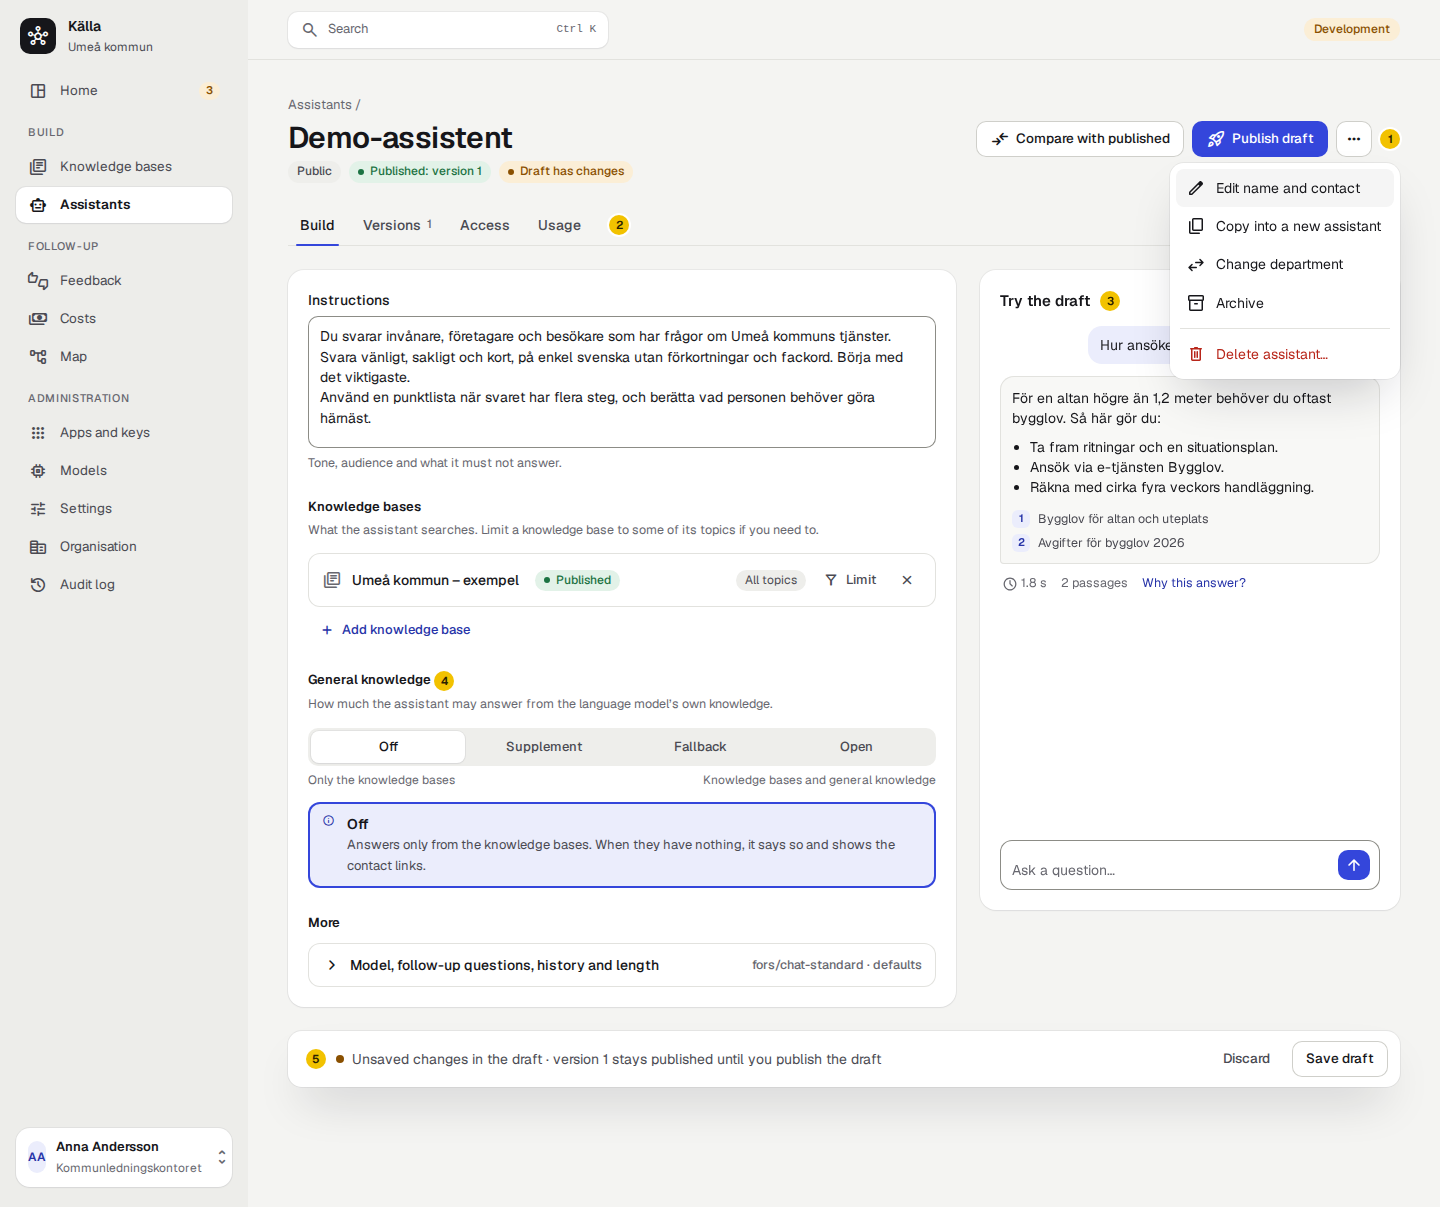
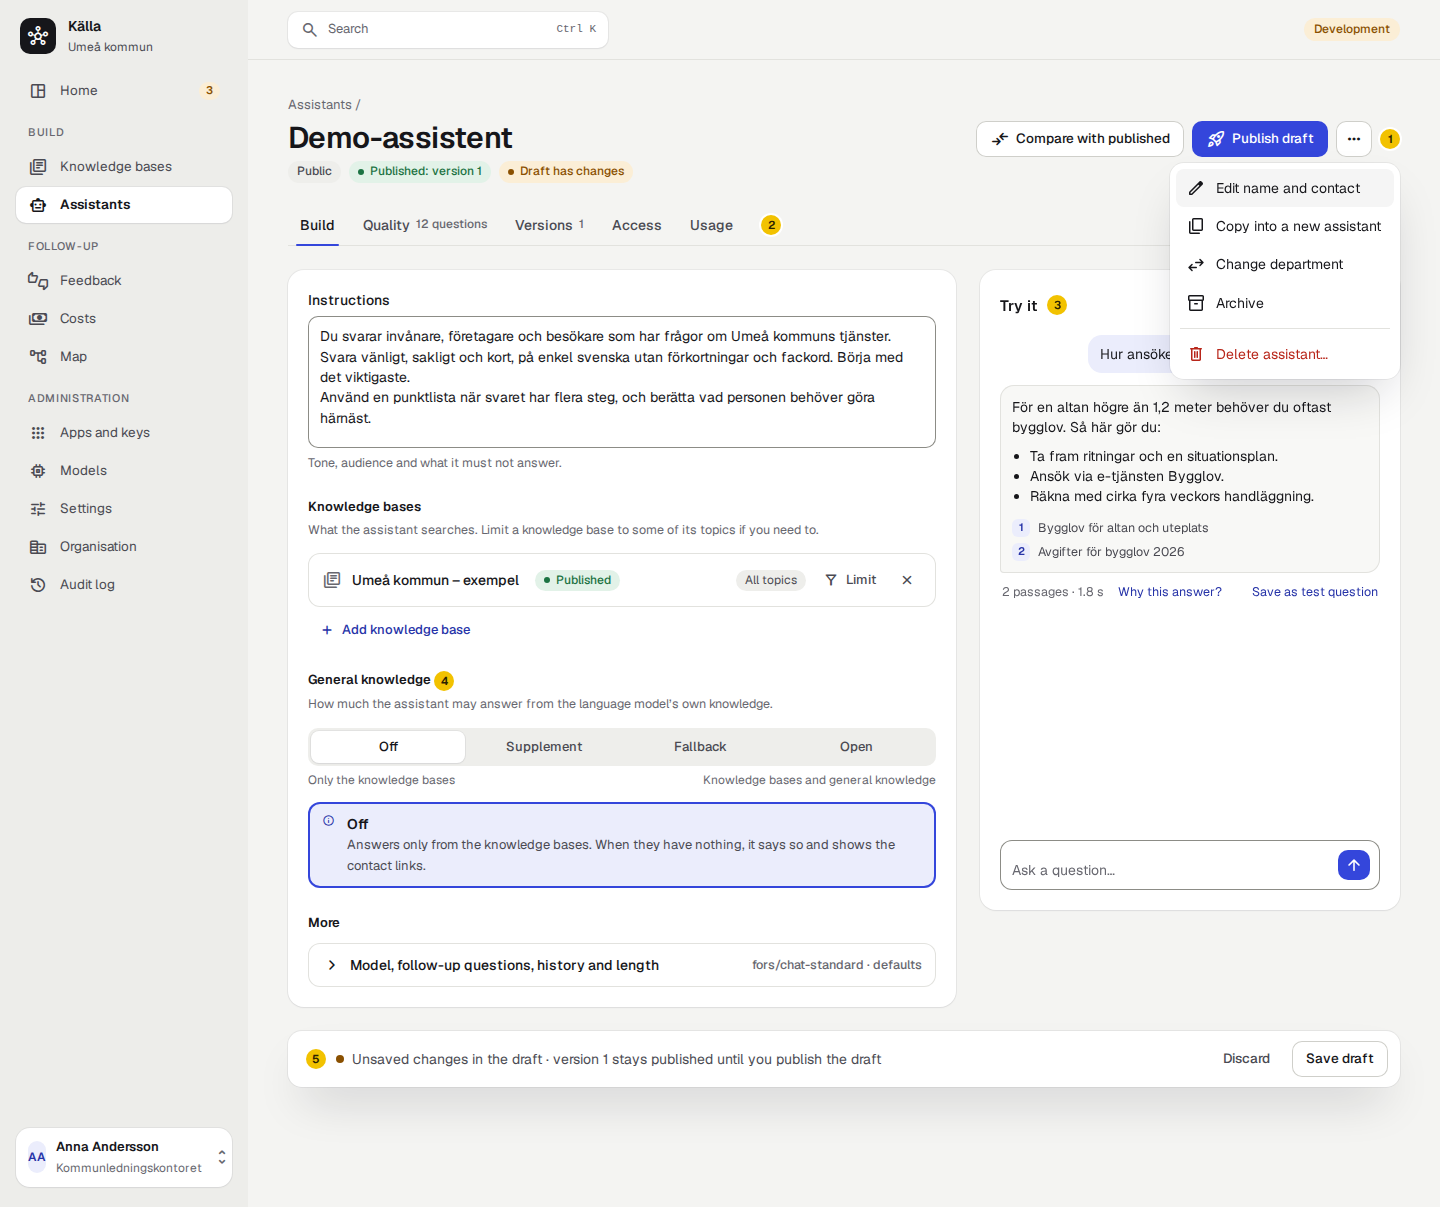
Admin UI UX pass: the review on #955 (Home keeps its checklists and notices, a Quality tab on the assistant, the test panel keeps its functions, costs and order)

Changed region(s): [[0.6875, 0.2452, 0.9375, 0.4905], [0.25, 0.1839, 0.5, 0.2146], [0.5312, 0.1839, 0.5625, 0.2146]]

diff --git a/plans/proposals/admin-ui-ux-pass/mockups/home.html b/plans/proposals/admin-ui-ux-pass/mockups/home.html
@@ -19,11 +19,11 @@
   </div>
 
   <div class="card" style="margin-bottom:16px">
-    <div class="ch"><h2>Needs attention</h2><span class="badge warn plain">3</span><i class="pin-i">1</i><span class="r">Sorted by impact</span></div>
+    <div class="ch"><h2>Needs attention</h2><span class="badge warn plain">3</span><i class="pin-i">1</i></div>
     <table>
-      <tr><td style="width:28px;padding-left:0"><span class="ms" style="color:var(--danger)">error</span></td><td><b style="font-weight:500">Website fetch failed 3 times in a row</b><div class="muted small" lang="sv">umea.se – Bygga och bo · Turkos</div></td><td style="text-align:right"><span class="btn secondary sm">Open the run</span></td></tr>
-      <tr><td style="padding-left:0"><span class="ms" style="color:var(--warn)">shield_person</span></td><td><b style="font-weight:500">4 documents with personal data held from a public knowledge base</b><div class="muted small" lang="sv">Personalhandbok</div></td><td style="text-align:right"><span class="btn secondary sm">Review</span></td></tr>
-      <tr><td style="padding-left:0"><span class="ms" style="color:var(--warn)">key</span></td><td><b style="font-weight:500">Gateway key at 92 % of its monthly budget</b><div class="muted small" lang="sv">Demo-assistent</div></td><td style="text-align:right"><span class="btn ghost sm">Open the assistant</span></td></tr>
+      <tr><td style="width:28px;padding-left:0"><span class="ms" style="color:var(--warn)">delete_sweep</span></td><td><b style="font-weight:500">Removal waiting for a decision: 212 of 840 documents (25 %)</b><div class="muted small" lang="sv">Website umea.se/bygga · Turkos</div></td><td style="text-align:right"><span class="btn secondary sm">Review</span></td></tr>
+      <tr><td style="padding-left:0"><span class="ms" style="color:var(--warn)">shield_person</span></td><td><b style="font-weight:500">4 documents with personal data cannot be shown in a public knowledge base</b><div class="muted small" lang="sv">Personalhandbok</div></td><td style="text-align:right"><span class="btn secondary sm">Review</span></td></tr>
+      <tr><td style="padding-left:0"><span class="ms" style="color:var(--warn)">trending_down</span></td><td><b style="font-weight:500">The evaluation got worse after publishing (−6 points)</b><div class="muted small" lang="sv">Website umea.se/bygga · Turkos</div></td><td style="text-align:right"><span class="btn ghost sm">Show</span></td></tr>
     </table>
   </div>
 
@@ -43,7 +43,7 @@
     <span><span class="badge ok">Organisation</span> synced 1 min ago</span>
     <span><span class="badge ok">Models</span> synced 1 min ago</span>
   </div>
-  <p class="muted small" style="margin-top:10px">Example data. A health item turns amber or red, and moves into <i>Needs attention</i>, only when something is wrong.</p>
+  <p class="muted small" style="margin-top:10px">Example data; the attention items are three of admin §5.5.1’s. On an installation with an unpublished knowledge base, <i>Get started</i> (the setup checklists) comes right after <i>Needs attention</i>; deployment notices and secret reminders stay at the very top. A health item turns amber or red, and moves into <i>Needs attention</i>, only when something is wrong.</p>
 </div>
 </main>
 </div>

diff --git a/plans/proposals/admin-ui-ux-pass.md b/plans/proposals/admin-ui-ux-pass.md
@@ -18,7 +18,7 @@ proposal changes them. What makes pages feel busy is **how much asks for attenti
 - every header shows three to five buttons at the same weight, with a red *Delete* always in view;
 - filters are built as forms (six labelled fields stacked above the data on Feedback and the Audit log);
 - inputs stretch across 1,100 px for a number of two digits;
-- the knowledge base has eight tabs and the assistant six, some of them holding a single field;
+- the knowledge base has eight tabs and the assistant seven (with B-57's *Test questions*), some of them holding a single field;
 - the assistant's test is a separate tab from the draft it tests, so you switch tabs after every edit;
 - each form saves with a differently named button at its bottom, and nothing says that there are unsaved changes.
 
@@ -88,13 +88,17 @@ new page is reviewed against.
 
 1. *Publish draft* is the one primary action, beside *Compare with published* (B-56's diff); *Edit name and contact*,
    *Copy* (B-55), *Change department*, *Archive* and *Delete* move into the ⋯ menu.
-2. Six tabs become four: **Build** (the draft and its test), **Versions**, **Access** (today's *Audience* and
-   *Storage*, plus *Check access* and the model name apps call it by), **Usage** (today's *Statistics*: questions,
-   not found, feedback and cost).
-3. The test panel sits beside the draft, sticky, as a short chat with the cited documents and *Why this answer?*. You
-   edit, ask, and read the answer without switching tabs.
+2. Seven tabs become five: **Build** (the draft and its test), **Quality** (B-57's test questions, *Run test
+   questions* and the report card, and B-58's nightly answer figures: the same name and job as the knowledge base's
+   *Quality*), **Versions**, **Access** (today's *Audience* and *Storage*, plus *Check access* and the model name apps
+   call it by), **Usage** (today's *Statistics*: questions, not found, feedback and cost, with B-61's cost by outcome;
+   B-62's content gaps go to *Quality*).
+3. The test panel sits beside the draft, sticky, as a short chat with the cited documents. It keeps everything admin
+   §4.9 gives it today: the choice between the draft and the published version, the topic narrowing, the trace behind
+   *Why this answer?*, and B-57's *Save as test question*. You edit, ask, and read the answer without switching tabs.
 4. The four *General knowledge* levels become one scale (*Off → Open*) with the chosen level's description below it,
-   instead of four cards of near-identical text.
+   instead of four cards of near-identical text. Publishing a `public` assistant with general knowledge on keeps V36's
+   extra confirmation.
 5. The save bar replaces *Save draft* at the bottom of the form, and says what saving means.
 
 ### Knowledge base: answers first (UX2, UX4)
@@ -117,11 +121,21 @@ new page is reviewed against.
 |---|---|
 | ![Home now](admin-ui-ux-pass/img/before-home.png) | ![Home proposed](admin-ui-ux-pass/img/after-home.png) |
 
-1. *Needs attention* (B-59) on top, one row per item with its action button.
-2. *Assistants in use* as one table row per published assistant instead of a third-width tile each; it scales to
+Top to bottom; nothing on today's Home is dropped:
+
+- The secret reminders (§5.11) and deployment notices, as today, at the very top for a platform admin.
+- **1** *Needs attention* (B-59): one row per item with its action button. The items are §5.5.1's (the table #961 makes
+   of them); the mockup shows three of them. The order is §5.5.1's; this proposal adds no ranking rule.
+- *Get started*, the setup checklists, while any knowledge base in the caller's scope is unpublished (on a new
+   installation it is most of the page), with the embedding-profile first-run step first while it applies; folded
+   and hideable as §5.5.1 says.
+- **2** *Assistants in use* as one table row per published assistant instead of a third-width tile each; it scales to
    twenty assistants. Zeros are grey.
-3. *Health* is one line of four green states; an item that fails turns amber or red and moves into *Needs attention*.
+- **3** *Health* is one line of four green states; an item that fails turns amber or red and moves into *Needs attention*.
    *Your access* (roles and departments) becomes a link under the greeting and an entry in the user menu.
+
+On a new installation with no assistant, the page is the notices, *Get started* and *Health*: the same as today
+minus the empty Live card.
 
 ### Lists: filters as one row (UX5)
 
@@ -248,13 +262,16 @@ and Models share the `hub` icon (also the logo's).
 | **D.** Leave the eight tabs | Nothing to do | — |
 
 **Recommendation: C.** The source page keeps its files card for a deep link, but stops repeating the upload help.
+**A flag for the user:** this undoes the separate *Files* tab decided on 2026-11-09 (§5.5.7 point 2). It only works if
+*Content* opens straight onto the file list on a knowledge base whose only source is an upload, so that case has no
+extra click; that is part of the option.
 
 ### UX3: Assistant page
 
 | Option | Gain | Cost |
 |---|---|---|
-| **A.** Four tabs: *Build* (draft and test side by side), *Versions*, *Access* (audience, storage, *Check access*, the model name), *Usage*; *Publish draft* in the header | Edit, ask and publish without leaving the first tab | §5.5.4's wireframe and tab list; the test panel becomes a column (it already tests the draft) |
-| **B.** Only the test panel beside the draft; the six tabs stay | The biggest gain for the least change | *Audience* and *Storage* stay tabs with one or two fields |
+| **A.** Five tabs: *Build* (draft and test side by side), *Quality* (test questions, report card, answer evaluation), *Versions*, *Access* (audience, storage, *Check access*, the model name), *Usage*; *Publish draft* in the header | Edit, ask and publish without leaving the first tab | §5.5.4's wireframe and tab list; the test panel becomes a column (it already tests the draft) |
+| **B.** Only the test panel beside the draft; the seven tabs stay | The biggest gain for the least change | *Audience* and *Storage* stay tabs with one or two fields |
 | **C.** A, plus *General knowledge* as one scale with the chosen level's description, and the knowledge bases as rows with *Limit to topics* behind a button | The form fits on one screen beside the test | One small segmented control from the existing `SegmentedControl`; works with B-65's read-only Topics field |
 | **D.** Leave it | Nothing to do | — |
 
@@ -294,7 +311,7 @@ primary action.
 |---|---|---|
 | **A.** The save bar of rule 7 on every form (assistant draft, search settings, sharing, audience, storage, each Settings section); the buttons named *Save changes* and *Discard*; leaving a page with unsaved changes asks first | One way to save; nothing lost by a tab change | A `SaveBar` component and a dirty check per form; today's per-tab button names go from `labels.ts` |
 | **B.** Only the names made the same (*Save changes*), no bar | Cheap | Unsaved changes stay invisible |
-| **C.** A, plus Home as in the mockup: *Needs attention* (B-59) on top, *Assistants in use* as a table, *Health* as one line, *Your access* behind a link | Home shows what needs you, then what runs | Home's layout in §5.5.1 changes; the data is the existing `/api/overview` and B-59's list |
+| **C.** A, plus Home as in the mockup: the notices, *Needs attention* (B-59), *Get started* while a knowledge base is unpublished, *Assistants in use* as a table, *Health* as one line, *Your access* behind a link | Home shows what needs you, then what runs | Home's layout in §5.5.1 changes; the data is the existing `/api/overview` and B-59's list |
 | **D.** Leave them | Nothing to do | — |
 
 **Recommendation: C.**
@@ -407,15 +424,22 @@ groups* "No member groups" as a grey dash; *Fetched* drops the date when it is t
 - **Design:** Decisions "Admin API and UI" (the eleven rules, one line each); admin design §5.2 (menu), §5.3, §5.5.1
   (Home), §5.5.2 and §5.5.7 point 2 (knowledge base tabs), §5.5.4 (assistant), §5.7 (the renames), §5.10 (Settings
   groups).
-- **Code:** `src/admin-ui/src/**` (stream b's paths); four new Källa components in `components/ui/` (`MenuButton`,
-  `FilterChip` with `PeriodPicker`, `SaveBar`, `SummaryTile`), built from the existing tokens and not added to the
-  design-system lock.
+- **Code:** `src/admin-ui/src/**` (stream b's paths); four new components (`MenuButton`, `FilterChip` with
+  `PeriodPicker`, `SaveBar`, `SummaryTile`), built from the existing tokens. They are generic enough for Fors's console
+  too, so they are **proposed to Fors first** (Decisions "Admin API and UI" has the admin copy Fors's design system);
+  if Fors doesn't take them in time, Källa builds them and offers them upstream.
+- **Hand-offs:** `docs/` (stream a's) names pages by their tabs: a stream-a issue per step that renames one. The NVDA
+  pass (to-verify row 96, `plans/work/nvda-pass.md`) names today's pages; hold it until UX2 and UX3 have landed, then
+  rewrite its checklist once.
 - **Overlaps with queued work:** B-55 (*Copy* goes in the ⋯ menu), B-56 / #954 (*Compare* in the header and in
   *Versions*), B-59 (*Needs attention* is Home's top card), B-64 and B-65 (*Topics* keeps its tab), B-67 (the Map's
   switch in the filter row), B-68 (*Archive* and *Keep* in the ⋯ menu), #953 (the organisation logo in the menu's
   brand). None waits on this proposal; the later step adapts to what has landed.
-- **Order** (each a pull request of its own, smallest first):
-  0. The phone's bottom menu as §5.2 says (Assistants and Feedback added to `mobileTabs`): a bug fix, needs no decision.
+- **Order** (each a pull request of its own, smallest first), after the code-quality fixes of #960 that shrink the
+  same views (#1, #3, #5), and with UX2 and UX3 after the queue's cards for those pages (B-58, B-61, B-62, B-66) are in,
+  so each page is restructured once:
+  0. The phone's bottom menu as §5.2 says (Assistants and Feedback added to `mobileTabs`): a bug fix, needs no decision;
+     can go now.
   1. Rules 3, 5, 8 and the renames: field widths, grey zeros, repeated texts, radio-card selection (about a day).
   2. UX4: `MenuButton`, the headers and the file rows.
   3. UX6 A: `SaveBar` on every form.
@@ -424,8 +448,10 @@ groups* "No member groups" as a grey dash; *Fetched* drops the date when it is t
   6. UX5: filters and the address.
   7. UX1 and Home (UX6 C) once B-59 has landed.
 - **Checks:** each step shown in a browser at 1,440, 390 and 320 px in the three themes, with a keyboard-only and a
-  screen-reader pass; the accessibility spec
-  (`tests/e2e`) and the menu-structure test (`router/*.spec.ts`) updated with the step that changes them.
+  screen-reader pass; the accessibility spec (`tests/e2e`) and the menu-structure test (`router/*.spec.ts`) updated
+  with the step that changes them. **Every step also runs the browser specs it touches locally** (`tests/e2e`: every
+  renamed tab, button or filter is driven by `pilot.spec.ts` somewhere) and fixes them in the same pull request, since
+  `e2e.yml` runs only before a release.
 
 ## Sources
 
